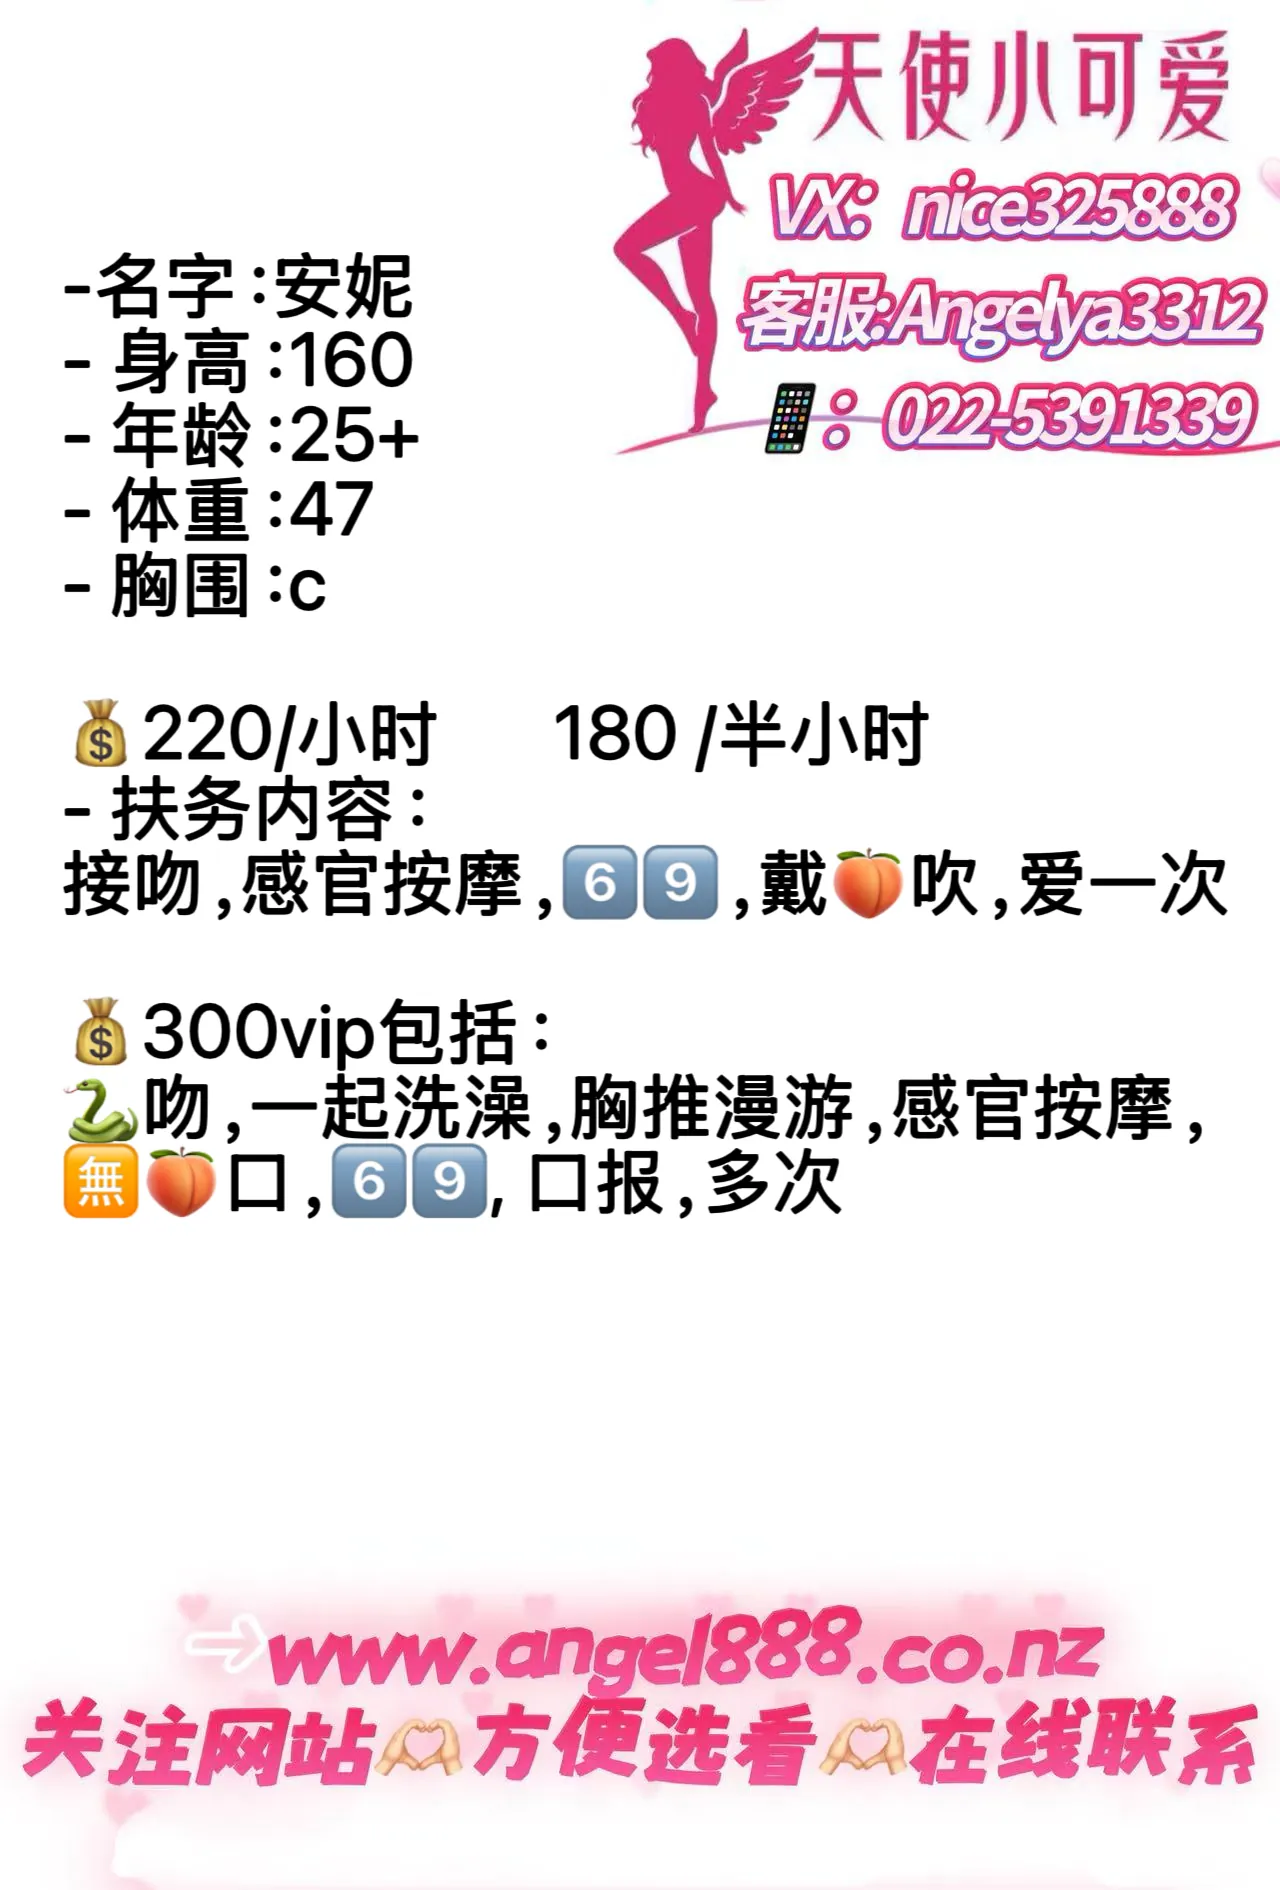
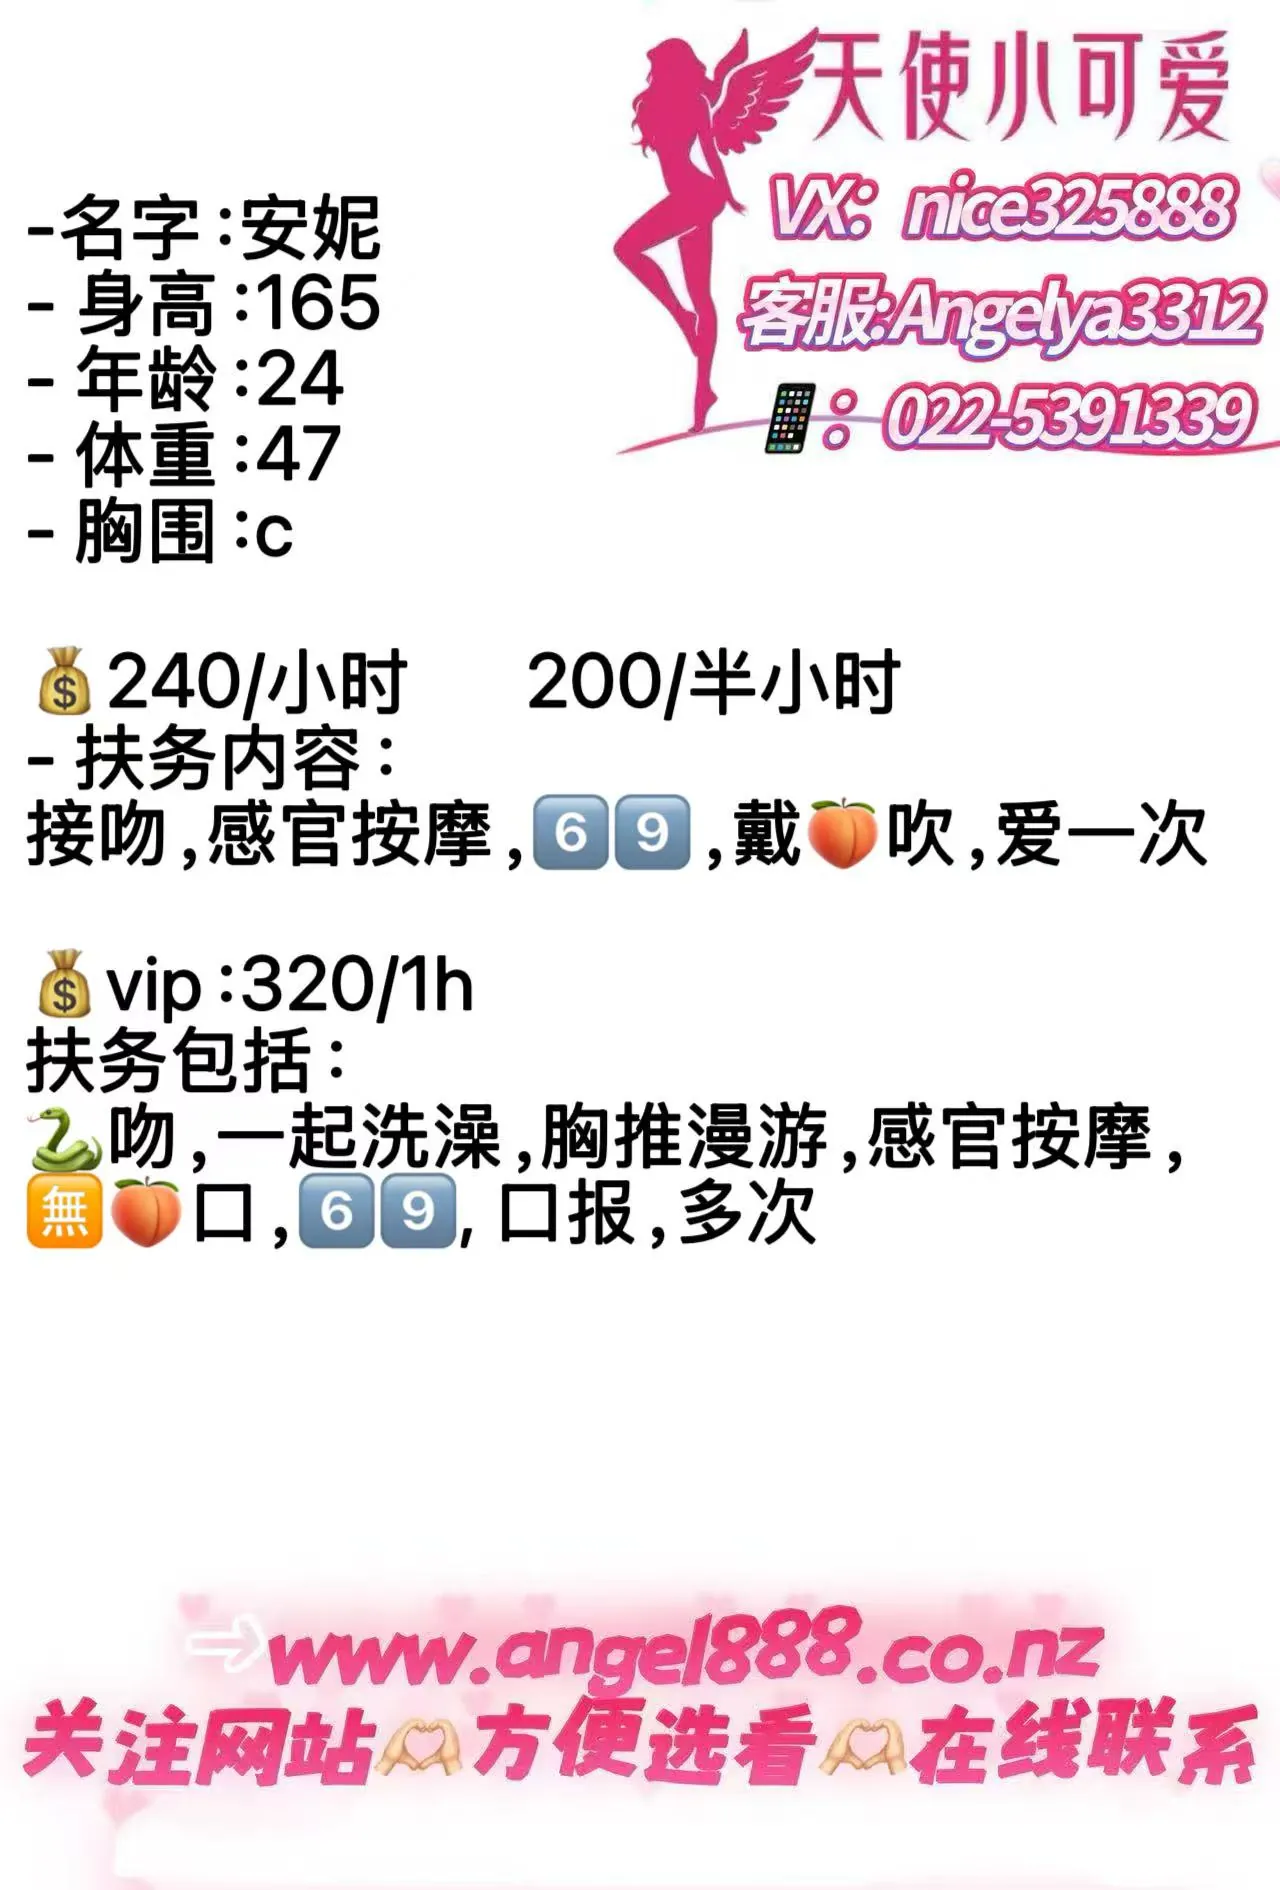
feat: Update Annie (安妮, ID 50) profile in Central with new prices, age, services and WebP optimized assets

Changed region(s): [[0.0, 0.0937, 0.9688, 0.6868], [0.625, 0.1561, 0.6562, 0.1873]]

diff --git a/src/lib/data.js b/src/lib/data.js
@@ -333,18 +333,18 @@ export const girls = [
     verified: true,
     location: "Central",
     stats: {
-      age: "25+",
-      height: "160cm",
+      age: 24,
+      height: "163cm",
       weight: "47kg",
       cup: "C (Natural)",
       nationality: "Chinese",
     },
     image: "/images/girls/annie/1.webp",
     description: {
-      en: "Petite, sweet, and incredibly gentle, Annie is now available in Central to offer her dedicated companionship. Blessed with a natural C-cup bust and a beautiful petite frame, she has a warming gaze and a deeply nurturing personality. Superb in both full-body relaxation and high-passion sensory interactions, she focuses on every detail to ensure you have a highly satisfying, completely relaxing getaway.",
-      cn: "娇小玲珑、温柔甜美的安妮，现已来到中区为您提供专属的温存陪伴。她拥有自然丰满的 C 罩杯和纤细均衡的娇俏身材，眼神温柔，服务周到。安妮不仅精通全身舒缓与感官调理，更能为您带来水乳交融的深切互动。她极其注重服务细节，在温馨舒适的环境中为您呈献舒缓身心的完美体验。",
+      en: "Petite, sweet, and incredibly gentle, the charming 24-year-old Annie is now available in Central to offer you her dedicated companionship. Blessed with a natural C-cup bust and a beautiful petite frame (163cm, 47kg), she has a warming gaze and a deeply nurturing personality. Specializing in both gentle sensory massage and high-passion intimate SVIP/Full Service packages, she focuses on every detail to satisfy your every desire and ensure a deeply relaxing, blissful escape.",
+      cn: "娇小玲珑、温柔甜美的24岁女孩安妮，现已来到中区为您提供专属的温存陪伴。她拥有自然丰满的C罩杯和纤细均衡的娇俏身材（163cm，47kg），眼神温柔，服务周到。专业定制SVIP与全套互动体验，包含双人淋浴、缠绵舌吻、性感黑丝、胸推漫游、深度无套口及口爆等项目。在温馨舒适的环境中，为您呈现极尽缠绵与彻底放松的感官享受。",
     },
-    price: "$300 / 1h (VIP) · $220 / 1h · $180 / 30min",
+    price: "$320 / 1h (VIP) · $240 / 1h · $200 / 30min",
     services: {
       en: [
         "French kiss",
@@ -354,7 +354,7 @@ export const girls = [
         "Body slide",
         "Natural BJ",
         "Multi shots",
-        "VIP: Natural BJ · French kiss · 69 · Cum in mouth · Multi shots · Shower together",
+        "VIP: Natural BJ · French kiss · 69 · Cum in mouth · Multi shots · Shower together · Body slide",
       ],
       cn: [
         "舌吻",
@@ -364,7 +364,7 @@ export const girls = [
         "胸推漫游",
         "无套口",
         "多次数",
-        "VIP套餐：无套口 · 舌吻 · 69 · 口爆 · 多次数 · 双人洗浴",
+        "VIP套餐：无套口 · 舌吻 · 69 · 口爆 · 多次数 · 双人洗浴 · 胸推漫游",
       ],
     },
     gallery: [
